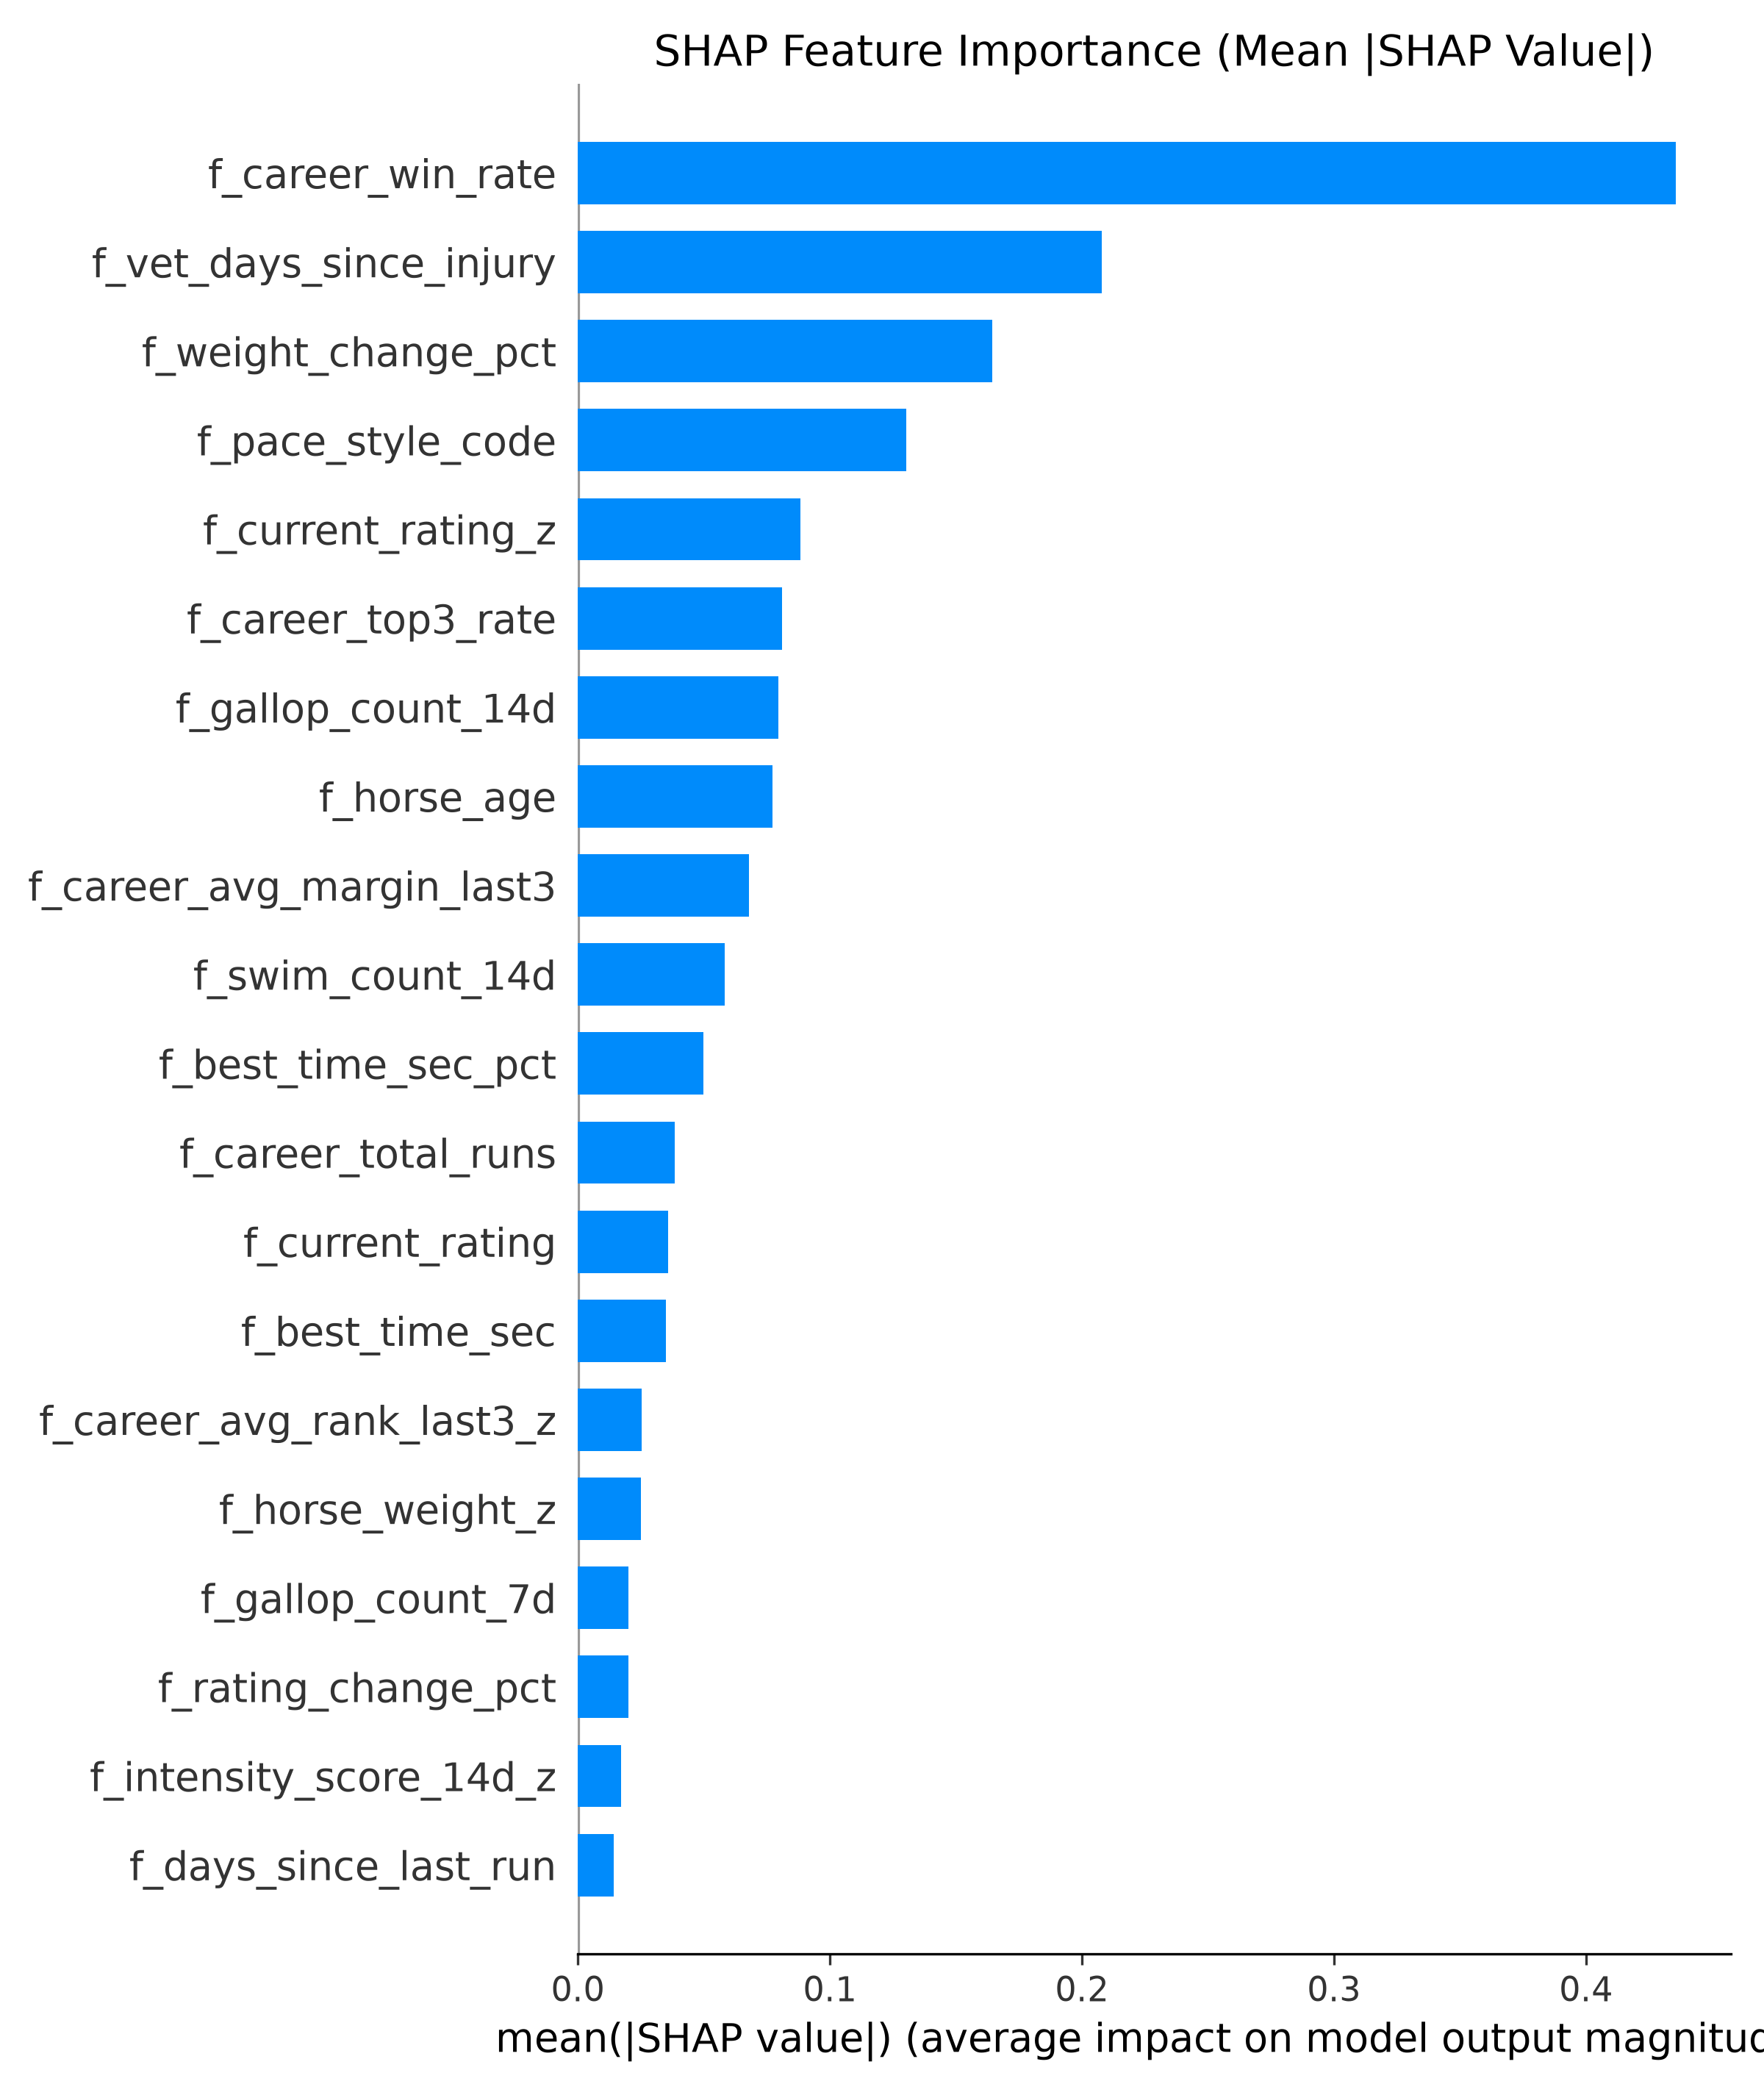
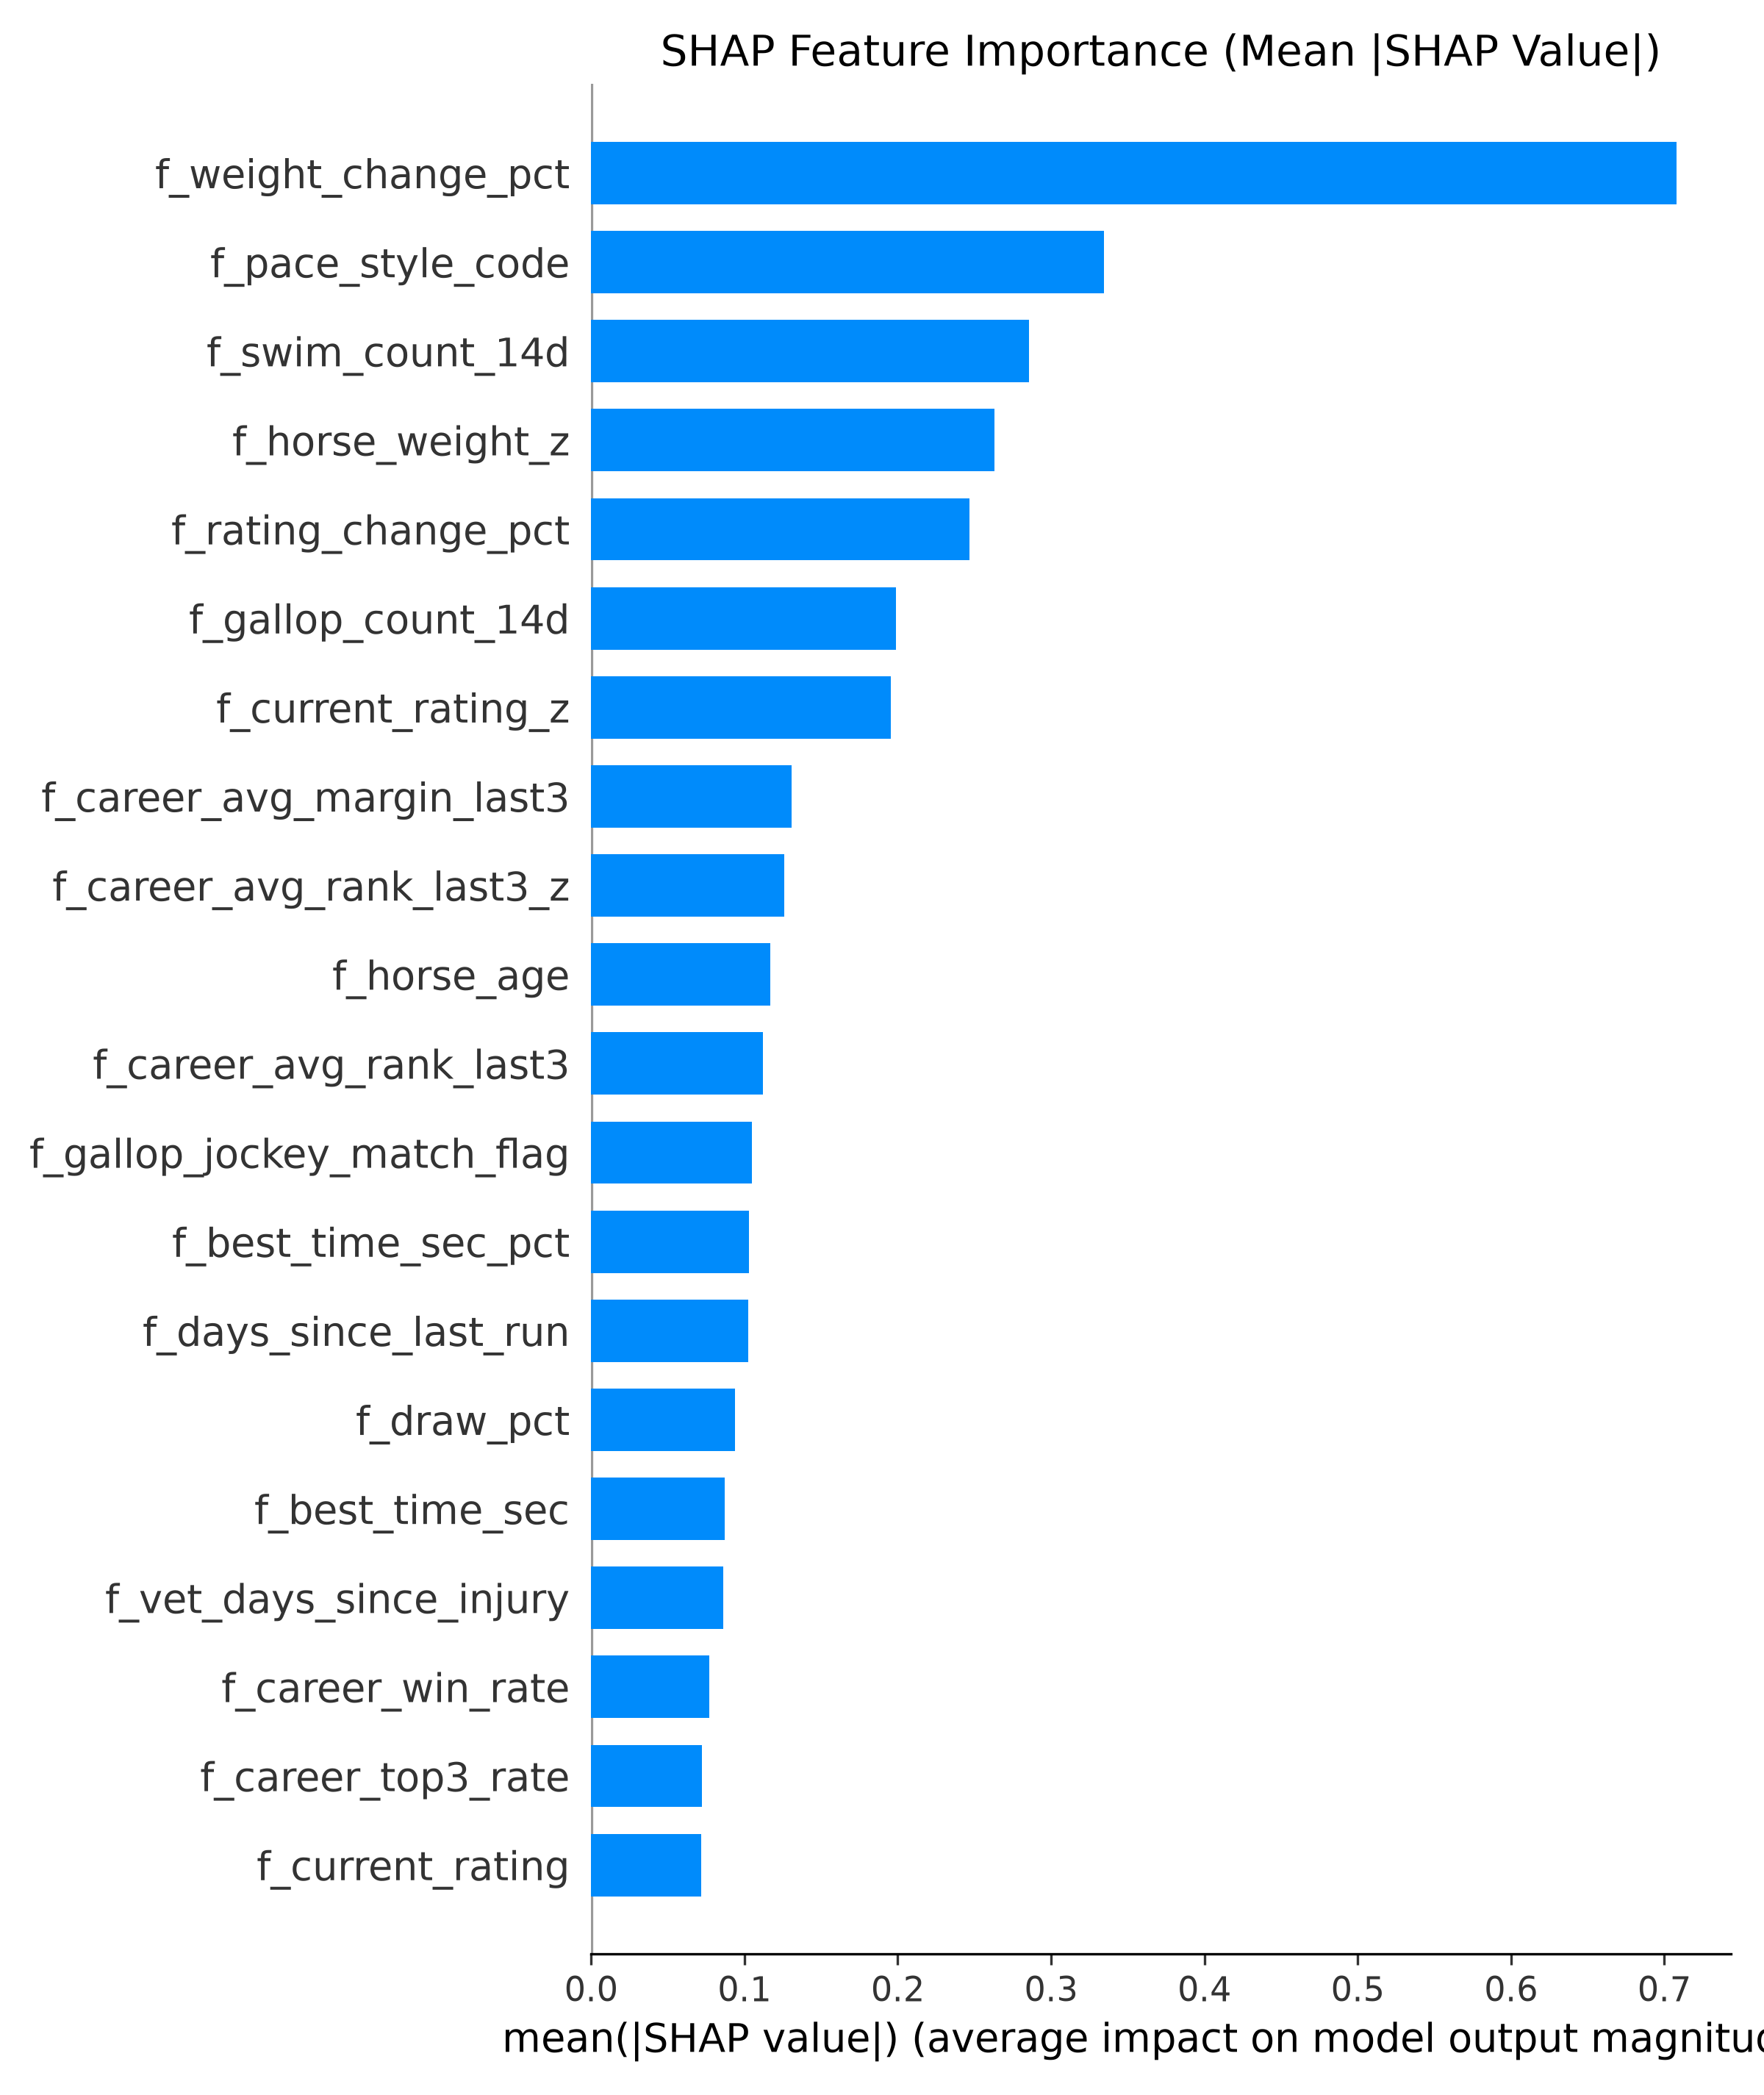
[hkjc] enhanced predict model for 2 Fine-Tuning Suggestions

diff --git a/hkjc/hkjc_ml_enhanced.py b/hkjc/hkjc_ml_enhanced.py
@@ -428,11 +428,13 @@ class TimeSeriesGroupKFold:
     """
     
     def __init__(self, n_splits: int = 5, date_col: str = 'race_date', 
-                 group_col: str = 'race_id', date_format: str = '%d/%m/%Y'):
+                 group_col: str = 'race_id', date_format: str = '%d/%m/%Y',
+                 min_train_dates: Optional[int] = None):
         self.n_splits = n_splits
         self.date_col = date_col
         self.group_col = group_col
         self.date_format = date_format
+        self.min_train_dates = min_train_dates
     
     def split(self, X, y=None, groups=None):
         """
@@ -477,6 +479,10 @@ class TimeSeriesGroupKFold:
             # Validation: dates from split_point to next split_point (or end)
             train_dates = unique_dates[:split_point]
             
+            # Skip fold if training set has too few dates (prevents unstable early folds)
+            if self.min_train_dates is not None and len(train_dates) < self.min_train_dates:
+                continue
+            
             if i < len(split_points) - 1:
                 val_dates = unique_dates[split_point:split_points[i + 1]]
             else:
@@ -504,9 +510,32 @@ class TimeSeriesGroupKFold:
 def create_objective(df: pd.DataFrame, feature_cols: List[str], config: ModelConfig):
     """Create Optuna objective function with time-aware cross-validation
     
-    Feature selection is performed INSIDE each CV fold using only training data
-    to prevent data leakage.
+    Feature selection is pre-computed ONCE per CV fold before the Optuna
+    study begins, then reused across all trials — eliminating redundant
+    quick_model training (n_trials × cv_folds -> cv_folds).
     """
+    tscv = TimeSeriesGroupKFold(n_splits=config.cv_folds)
+    
+    # Pre-compute fold-wise feature sets (one quick_model per fold, not per trial)
+    print("  Pre-computing fold-wise feature sets...")
+    fold_features_list = []
+    for fold_idx, (train_idx, _) in enumerate(tscv.split(df)):
+        train_df = df.iloc[train_idx].sort_values('race_id').reset_index(drop=True)
+        quick_model = lgb.LGBMRanker(
+            objective='lambdarank', metric='ndcg', random_state=42, verbose=-1,
+            n_estimators=50, learning_rate=0.05, num_leaves=16, max_depth=5, min_child_samples=10
+        )
+        train_groups = train_df.groupby('race_id', sort=False).size().values
+        quick_model.fit(
+            train_df[feature_cols], train_df['relevance'],
+            group=train_groups
+        )
+        fold_features = select_features_by_importance(quick_model, feature_cols,
+                                                      config.feature_selection_threshold)
+        if len(fold_features) == 0:
+            fold_features = feature_cols
+        fold_features_list.append(fold_features)
+        print(f"    Fold {fold_idx+1}: {len(feature_cols)} -> {len(fold_features)} features")
     
     def objective(trial: optuna.Trial) -> float:
         params = {
@@ -530,34 +559,17 @@ def create_objective(df: pd.DataFrame, feature_cols: List[str], config: ModelCon
         
         cv_scores = []
         
-        # Use TimeSeriesGroupKFold for proper time-aware CV (prevents data leakage)
-        tscv = TimeSeriesGroupKFold(n_splits=config.cv_folds)
-        
         for fold_idx, (train_idx, val_idx) in enumerate(tscv.split(df)):
             train_df = df.iloc[train_idx].sort_values('race_id').reset_index(drop=True)
             val_df = df.iloc[val_idx].sort_values('race_id').reset_index(drop=True)
             
-            # ===== FEATURE SELECTION INSIDE CV FOLD (NO LEAKAGE) =====
-            # Train a quick model on training fold only to get feature importance
-            quick_model = lgb.LGBMRanker(
-                objective='lambdarank', metric='ndcg', random_state=42, verbose=-1,
-                n_estimators=100, learning_rate=0.05, num_leaves=16, max_depth=5, min_child_samples=10
-            )
-            train_groups = train_df.groupby('race_id', sort=False).size().values
-            quick_model.fit(
-                train_df[feature_cols], train_df['relevance'],
-                group=train_groups
-            )
-            # Select features based on training fold importance only
-            fold_features = select_features_by_importance(quick_model, feature_cols, 
-                                                          config.feature_selection_threshold)
-            
-            if len(fold_features) == 0:
-                fold_features = feature_cols  # fallback
+            # Use pre-computed fold features (no quick_model inside trial)
+            fold_features = fold_features_list[fold_idx]
             
             X_train, y_train = train_df[fold_features], train_df['relevance']
             X_val, y_val = val_df[fold_features], val_df['relevance']
             
+            train_groups = train_df.groupby('race_id', sort=False).size().values
             val_groups = val_df.groupby('race_id', sort=False).size().values
             
             model = lgb.LGBMRanker(**params, eval_at=[1, 3, 5])
@@ -646,10 +658,29 @@ def optimize_classifier_optuna(df: pd.DataFrame, feature_cols: List[str],
                                 model_config: ModelConfig) -> Dict:
     """Optuna hyper-parameter search for the binary classifier (Model B)
     
-    ⚠️ Feature selection is performed INSIDE each CV fold using ONLY the
-    training fold to prevent data leakage — identical to the ranker's approach.
+    Feature selection is pre-computed ONCE per CV fold before the Optuna
+    study begins, then reused across all trials.
     """
     feat_threshold = model_config.feature_selection_threshold
+    tscv = TimeSeriesGroupKFold(n_splits=model_config.cv_folds)
+    
+    # Pre-compute fold-wise feature sets (one quick_clf per fold, not per trial)
+    print("  Pre-computing classifier fold-wise feature sets...")
+    fold_features_list = []
+    for fold_idx, (train_idx, _) in enumerate(tscv.split(df)):
+        train_df = df.iloc[train_idx].reset_index(drop=True)
+        quick_clf = lgb.LGBMClassifier(
+            objective='binary', metric='binary_logloss',
+            random_state=model_config.random_state, verbose=-1,
+            n_estimators=50, learning_rate=0.05, num_leaves=12,
+            max_depth=4, min_child_samples=10
+        )
+        quick_clf.fit(train_df[feature_cols], train_df['target_won'])
+        fold_features = _select_clf_features(quick_clf, feature_cols, feat_threshold)
+        if len(fold_features) == 0:
+            fold_features = feature_cols
+        fold_features_list.append(fold_features)
+        print(f"    Fold {fold_idx+1}: {len(feature_cols)} -> {len(fold_features)} features")
     
     def objective(trial: optuna.Trial) -> float:
         params = {
@@ -666,26 +697,13 @@ def optimize_classifier_optuna(df: pd.DataFrame, feature_cols: List[str],
         }
         
         cv_scores = []
-        tscv = TimeSeriesGroupKFold(n_splits=model_config.cv_folds)
         
         for fold_idx, (train_idx, val_idx) in enumerate(tscv.split(df)):
             train_df = df.iloc[train_idx].reset_index(drop=True)
             val_df = df.iloc[val_idx].reset_index(drop=True)
             
-            # ===== IN-FOLD FEATURE SELECTION (NO LEAKAGE) =====
-            # Train a quick classifier on training fold only to get feature importance
-            quick_clf = lgb.LGBMClassifier(
-                objective='binary', metric='binary_logloss',
-                random_state=model_config.random_state, verbose=-1,
-                n_estimators=100, learning_rate=0.05, num_leaves=12,
-                max_depth=4, min_child_samples=10
-            )
-            quick_clf.fit(train_df[feature_cols], train_df['target_won'])
-            
-            # Select features based on training-fold importance only
-            fold_features = _select_clf_features(quick_clf, feature_cols, feat_threshold)
-            if len(fold_features) == 0:
-                fold_features = feature_cols  # fallback
+            # Use pre-computed fold features (no quick_clf inside trial)
+            fold_features = fold_features_list[fold_idx]
             
             X_tr, y_tr = train_df[fold_features], train_df['target_won']
             X_val, y_val = val_df[fold_features], val_df['target_won']
@@ -889,11 +907,16 @@ class DualEnsemblePredictor:
                  classifier_calibrator,
                  feature_cols: List[str],
                  ranker_weights: Optional[Dict[str, float]] = None,
-                 dual_config: Optional[DualEnsembleConfig] = None):
+                 dual_config: Optional[DualEnsembleConfig] = None,
+                 ranker_feature_cols: Optional[List[str]] = None,
+                 classifier_feature_cols: Optional[List[str]] = None):
         self.ranker_models = ranker_models
         self.classifier_model = classifier_model
         self.classifier_calibrator = classifier_calibrator
+        # feature_cols kept for backward compatibility; use per-model cols when provided
         self.feature_cols = feature_cols
+        self.ranker_feature_cols = ranker_feature_cols or feature_cols
+        self.classifier_feature_cols = classifier_feature_cols or feature_cols
         self.ranker_weights = ranker_weights
         self.dual_config = dual_config or DualEnsembleConfig()
     
@@ -906,22 +929,22 @@ class DualEnsemblePredictor:
             clf_probs: Win probabilities from Classifier
             fused_scores: Combined scores (depends on fusion_method)
         """
-        X_use = X[self.feature_cols].fillna(0)
-        
-        # Model A: Ranker scores
+        # Model A: Ranker scores (uses ranker-specific features)
         if self.ranker_models and self.dual_config.use_ranker:
-            ranker_scores = ensemble_predict(self.ranker_models, X_use, self.ranker_weights)
+            X_ranker = X[self.ranker_feature_cols].fillna(0)
+            ranker_scores = ensemble_predict(self.ranker_models, X_ranker, self.ranker_weights)
         else:
-            ranker_scores = np.zeros(len(X_use))
+            ranker_scores = np.zeros(len(X))
         
-        # Model B: Classifier probabilities
+        # Model B: Classifier probabilities (uses classifier-specific features)
         if self.classifier_model is not None and self.dual_config.use_classifier:
+            X_clf = X[self.classifier_feature_cols].fillna(0)
             if self.classifier_calibrator is not None:
-                clf_probs = self.classifier_calibrator.predict_proba(X_use)[:, 1]
+                clf_probs = self.classifier_calibrator.predict_proba(X_clf)[:, 1]
             else:
-                clf_probs = self.classifier_model.predict_proba(X_use)[:, 1]
+                clf_probs = self.classifier_model.predict_proba(X_clf)[:, 1]
         else:
-            clf_probs = np.ones(len(X_use)) * 0.5
+            clf_probs = np.ones(len(X)) * 0.5
         
         # Fuse
         fused_scores = self._fuse(ranker_scores, clf_probs)
@@ -1982,7 +2005,7 @@ def train_pipeline(config: ModelConfig, data_path: str = 'hkjc_features_selected
     # Evaluate classifier
     clf_metrics = evaluate_classifier(clf_model, clf_calibrator, df, clf_final_features)
     
-    # Create dual ensemble predictor (uses union of Ranker + Classifier features)
+    # Create dual ensemble predictor (separate feature sets per model)
     dual_predictor = DualEnsemblePredictor(
         ranker_models=models,
         classifier_model=clf_model,
@@ -1990,6 +2013,8 @@ def train_pipeline(config: ModelConfig, data_path: str = 'hkjc_features_selected
         feature_cols=union_features,
         ranker_weights=weights,
         dual_config=dual_config,
+        ranker_feature_cols=final_features,
+        classifier_feature_cols=clf_final_features,
     )
     
     # Evaluate dual fusion on full data
@@ -2050,7 +2075,7 @@ def train_pipeline(config: ModelConfig, data_path: str = 'hkjc_features_selected
     
     # ===== PROBABILITY CALIBRATION =====
     print("\n=== Probability Calibration ===")
-    calibrator = ProbabilityCalibrator(method='isotonic', cv_folds=3)
+    calibrator = ProbabilityCalibrator(method='platt', cv_folds=3)
     calibrator.fit(df_sorted, all_preds)
     
     # Get calibrated probabilities
@@ -2191,13 +2216,19 @@ def predict_pipeline(future_data_path: str, model_dir: str = '.',
             calibrate_classifier=saved_dual.get('calibrate_classifier', True),
         )
         
+        # Load classifier-specific feature cols (saved during training)
+        clf_feature_cols = clf_data.get('feature_cols', feature_cols)
+        # Use union of ranker + classifier features for ensemble scoring context
+        union_fc = list(dict.fromkeys(feature_cols + clf_feature_cols))
         dual_predictor = DualEnsemblePredictor(
             ranker_models=models,
             classifier_model=clf_model,
             classifier_calibrator=clf_calibrator,
-            feature_cols=feature_cols,
+            feature_cols=union_fc,
             ranker_weights=weights,
             dual_config=dual_config,
+            ranker_feature_cols=feature_cols,
+            classifier_feature_cols=clf_feature_cols,
         )
         print(f"  Dual-model active: fusion={dual_config.fusion_method}, "
               f"bet=Top-{dual_config.bet_threshold_rank} AND prob>{dual_config.bet_threshold_prob:.0%}")